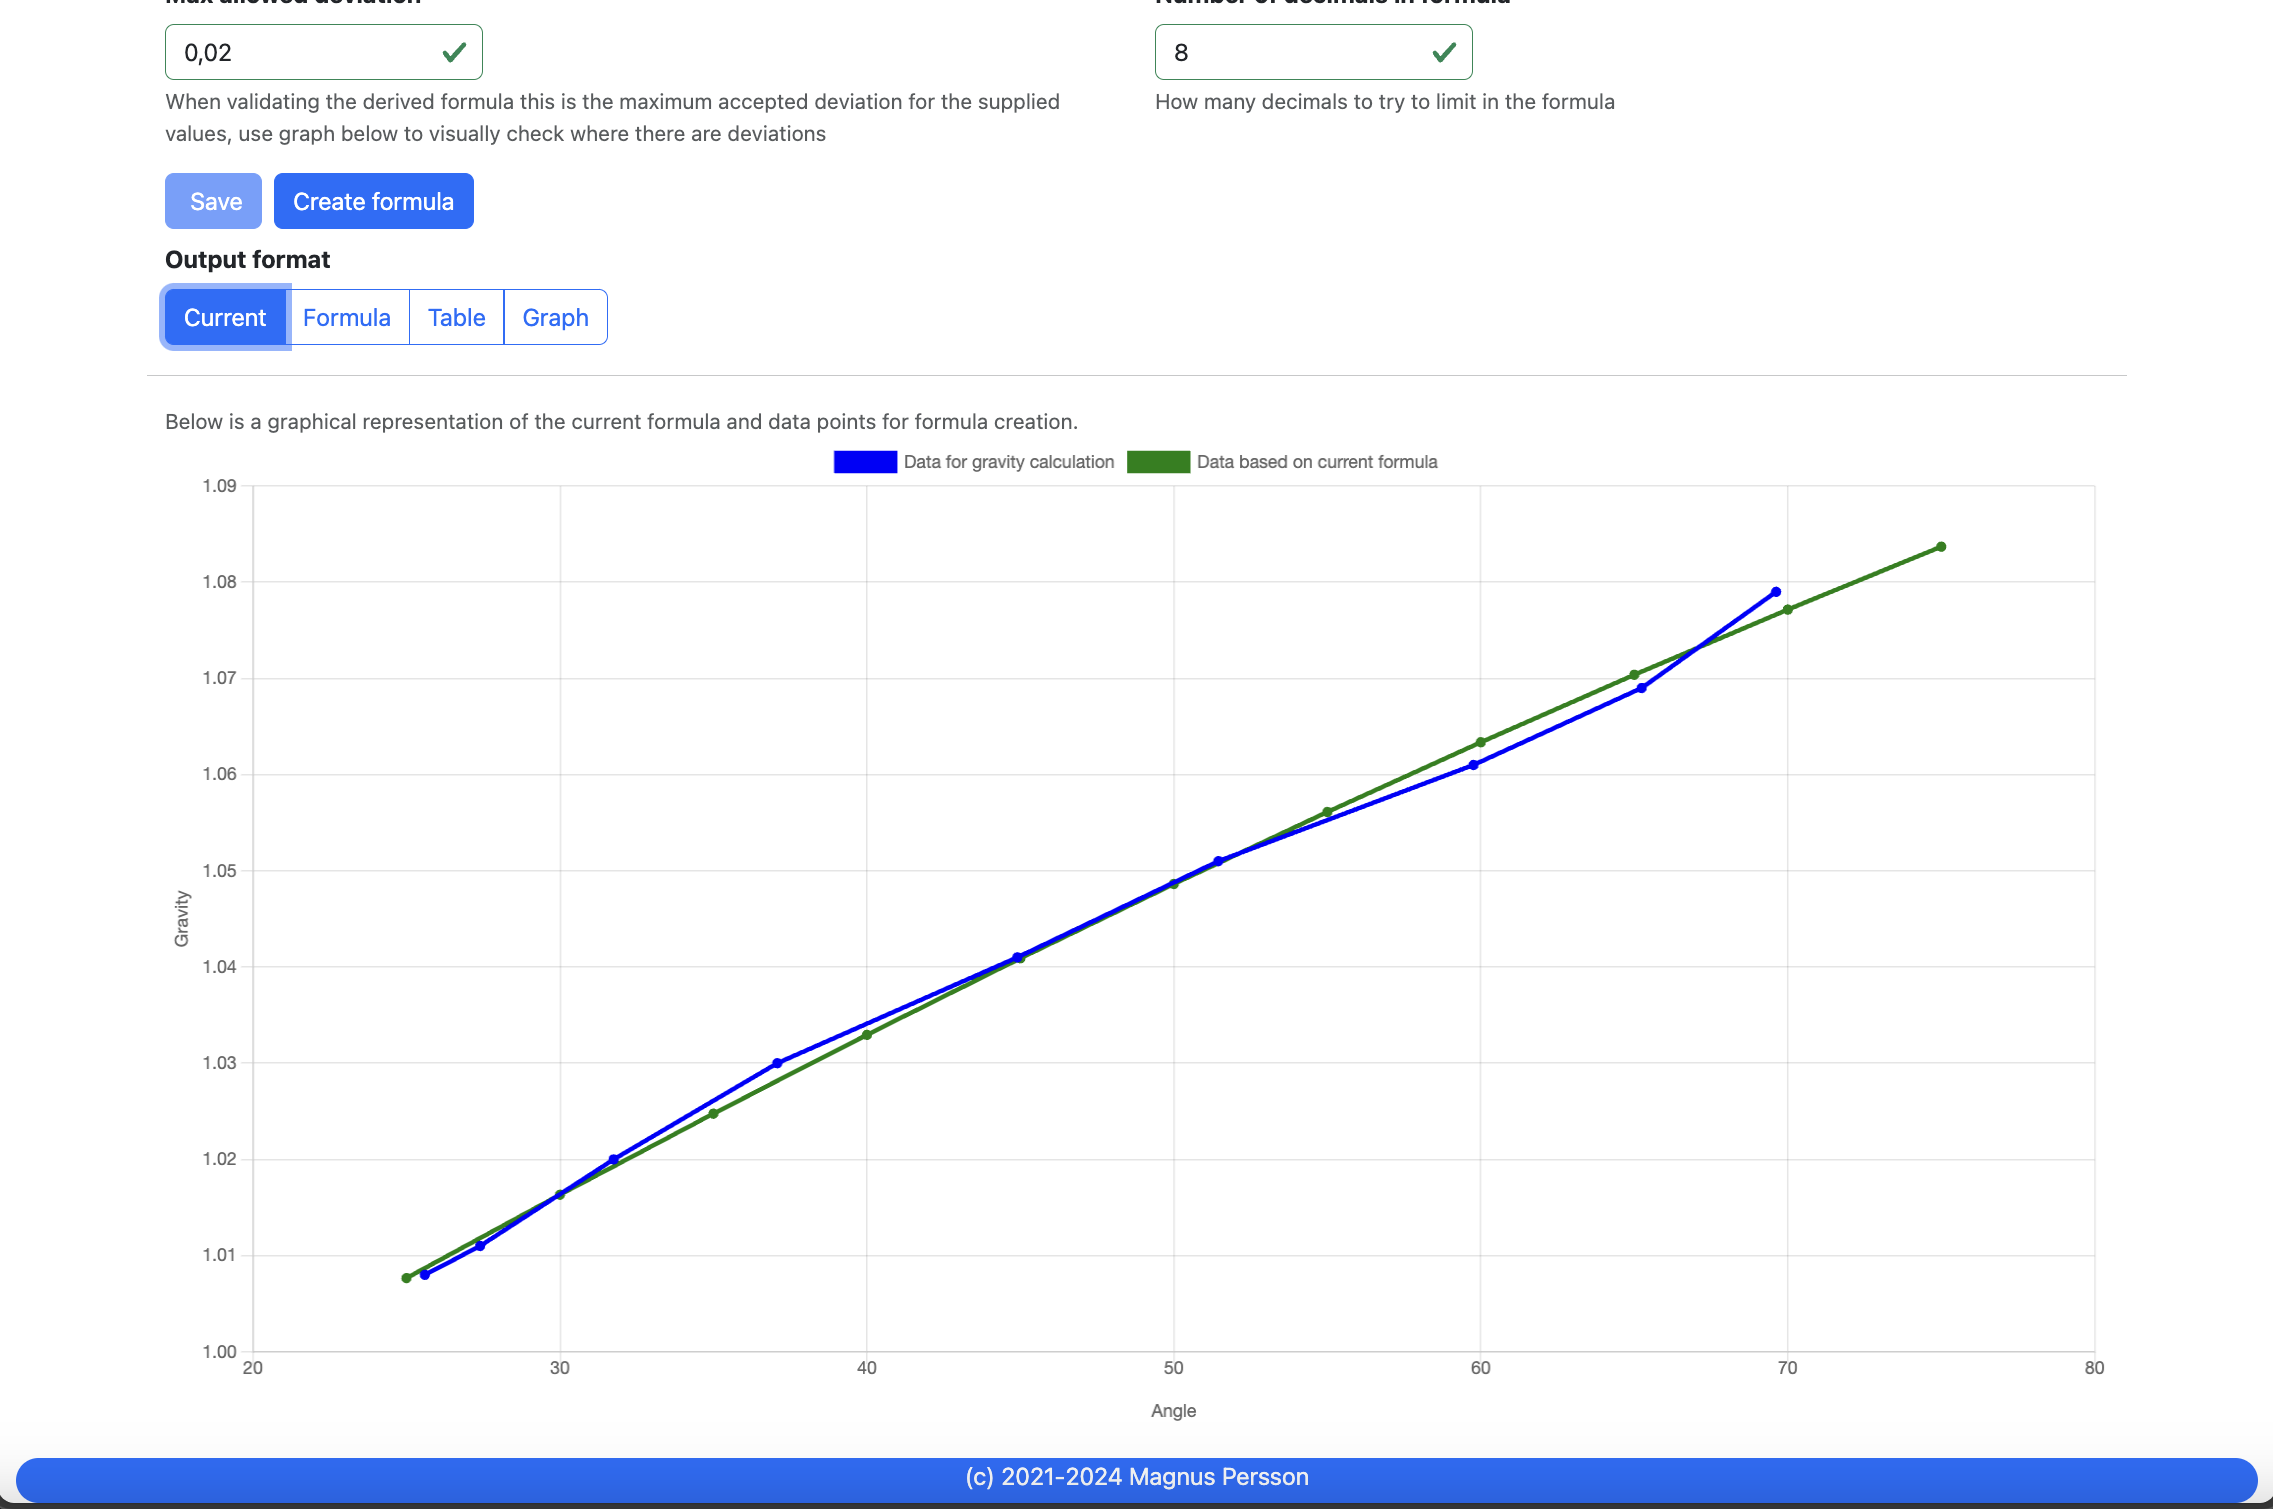
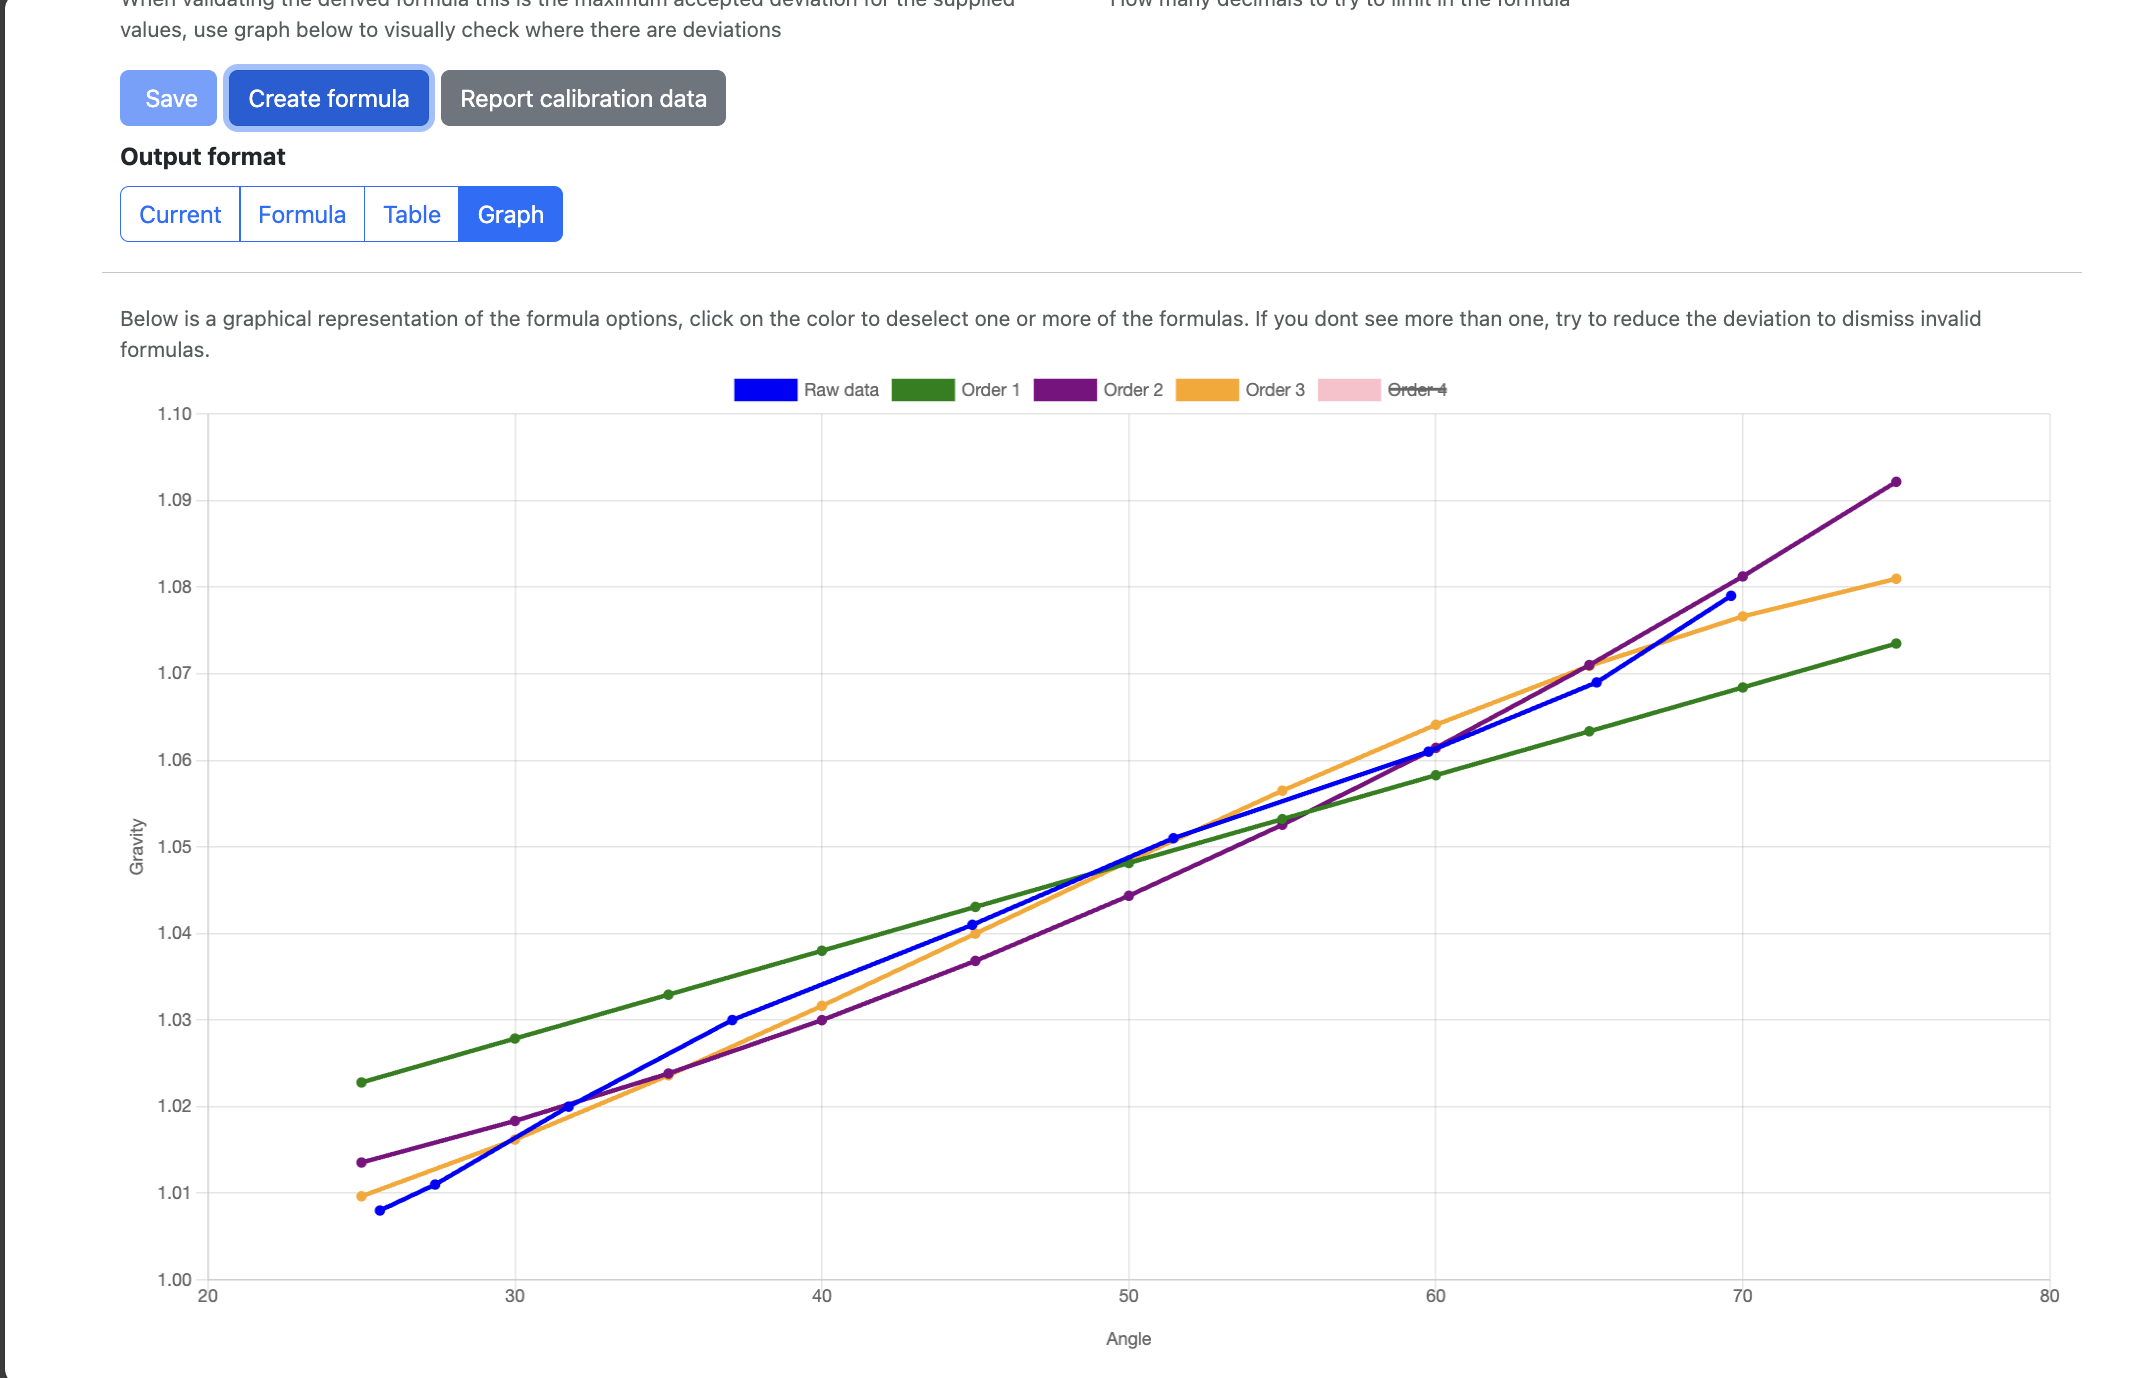
Update docs

diff --git a/src_docs/source/configuration.rst b/src_docs/source/configuration.rst
@@ -30,6 +30,17 @@ One of the following conditions will place the device in ``configuration mode``:
   reset button once. 
 
 
+From v2.3 i have added a reporting feature to collect information on what targets are being used for 
+this project. It will report data anonymously and no personal data is collected. The data being sent is 
+shown in the table below. 
+
+.. image:: images/ui-device-report.png
+  :width: 400
+  :alt: Report device hardware
+
+There is also a data collection feature related to the calibration and formula creations to see if that 
+can be improved futher. 
+
 Home page 
 =========
 
@@ -99,6 +110,10 @@ Device - Settings
 
   Switches the UI between light and dark mode. You can also use the toggle on the menubar for that.
 
+* **Check status**
+
+  Checks if this device has been reported to the data collection service.
+
 * **Factory default**
 
   This function will reset all settings to factory default. Use with caution!
@@ -107,6 +122,9 @@ Device - Settings
 
   Restarts the device, similar to pressing the reset button
 
+* **Report Usage**
+
+  Opens a dialog and allows the user to see the data beeing sent and confirm sending it to the data collection service.
 
 Device - Hardware
 +++++++++++++++++
@@ -302,31 +320,37 @@ Gravity - Formula
   When you submit the values the device will create formulas for order 1 to 4 and show those that are within the accepted deviation. You can also see 
   how the formula performs in relation to your datapoints and what the deviation is per angle. The more data points you have the better the graph.
 
+* **Report calibration data:**
+
+  Will send you formula and calibration data points to my collection server anonymously to help improve the formula creation in future releases.
+
+.. image:: images/ui-calibration-report.png
+  :width: 400
+  :alt: Formula collection
+
+Here a graph is shown with your current formula compared with the entered data points. 
 
 .. image:: images/ui-gravity-formula-current.png
   :width: 800
   :alt: Gravity Current
 
-Here a graph is shown with your current formula compared with the entered data points. 
-
+Here you can see the generated formulas. A drop down selector is available on the top to make it easy to select the formula you want.
 
 .. image:: images/ui-gravity-formula-formula.png
   :width: 800
   :alt: Gravity Formula 
 
-Here you can see the generated formulas. A drop down selector is available on the top to make it easy to select the formula you want.
+Table with calculated values per angle that has been used and the deviation from the entered data.
 
 .. image:: images/ui-gravity-formula-table.png
   :width: 800
   :alt: Gravity Table
 
-Table with calculated values per angle that has been used and the deviation from the entered data.
+Here a graph is shown with the created formulas. You can deselect a formula by selecting the color in the legend. 
 
 .. image:: images/ui-gravity-formula-graph.png
   :width: 800
   :alt: Gravity Graph
-
-Here a graph is shown with the created formulas. You can deselect a formula by selecting the color in the legend. 
 
 
 Push targets

diff --git a/src_docs/source/hardware.rst b/src_docs/source/hardware.rst
@@ -109,7 +109,7 @@ Gravitymon PCB
 **************
 
 Waveshare ESP32c3 Zero using PET casing
-=======================================
++++++++++++++++++++++++++++++++++++++++
 
 This is my own design of a PCB for Gravitymon using the same PET casing as for the iSpindel. For building this you need:
 
@@ -174,14 +174,14 @@ excellent pcb boards that, for example the iSpindel PCB v4.0 from Cherry Philip.
   :alt: iSpindle esp8266
 
 Schema for esp8266 build
-========================
+++++++++++++++++++++++++
 
 .. image:: images/schema_esp8266.png
   :width: 700
   :alt: Schema esp8266
 
 What is different for the ESP32
-===============================
++++++++++++++++++++++++++++++++
 
 You need to add a resistor between Battery PIN and ground of 220k. The reason is that the esp8266 has a build in resistor for a voltage divider 
 which the esp32 does not have. So in order to get a valid voltage (less than 2.3V on the analog pin. This depends on the board) on the analog 
@@ -215,7 +215,7 @@ Modifications
 *************
 
 Adding a reed (magnetic) reset switch
-=====================================
++++++++++++++++++++++++++++++++++++++
 
 A reed switch is a switch that reacts to magnetic fields. The ones I have tested are normally open and close in proximity to 
 a magnet. 
@@ -234,7 +234,7 @@ The reed switch is the glass tube visible under the esp8266.
   :alt: Reed build
 
 Gyro options
-============
+************
 
 Besides the standard MPU-6050 and MPU-6500 gravitymon now also supports the ICM-42670-p which can be obtained from Aliexpress as a development board. 
 There is some work ongoing to create a new PCB based on this gyro. I will update with links when available.
@@ -248,3 +248,6 @@ that allows you to use the Y axis for tilt detection. The boards I used is pin c
   
 .. note::
   The ICM gyro does not have any calibration feature since they are calibrated from the factory. So mounting the at the correct angle is important.
+
+.. note::
+  The ICM gyro boards that can be bought only support +3.3V power supply and most iSpindel boards use +5V to supply the gyro. 

diff --git a/src_docs/source/releases.rst b/src_docs/source/releases.rst
@@ -3,14 +3,16 @@
 Releases 
 ########
 
-v2.3.0 (beta 5)
-===============
+v2.3.0
+======
 
 In this version I have dropped some fetures to make room for new options and 
 features due to limitations on the devices supported, mainly the 4mb flash limit. 
 
 New features
 ++++++++++++
+* Added hardware usage reporting feature to collect data on what targets are used.
+* Added calibration usage reporting feature to collect data related to calibration
 * Added support for defining more than one pin for DS18B20 sensor
 * Added support for Tenstar ESP32c3 super mini (16-pin board)
 * Added more debug output to MPU6050 calibration sequence to help troubleshooting gyro issues.
@@ -19,7 +21,6 @@ New features
 * Added coloring to file viewer to make it easier to read (json, csv, formdata and mqtt template)
 * Added binary viewer in file viewer
 * Added 30s timeout during MPU6500 calibration if the gyro is not working properly
-
 * Added support for Waveshare ESP32c3 zero (18-pin board)
 * Added PCB for Waveshare ESP32c3 zero (18-pin board) 
 * Added feature flags to build so builds can be customized and UI will better adapt.

diff --git a/src_docs/source/index.rst b/src_docs/source/index.rst
@@ -7,7 +7,7 @@ Welcome to Gravitymon
 #####################
 
 .. note::
-  This documentation reflects **v2.3.0 - beta**. Last updated 2025-11-08
+  This documentation reflects **v2.3.0***. Last updated 2025-11-27
 
   Link to `previous documentation here <https://mp-se.github.io/gravitymon/v1.4/>`_ 
 
